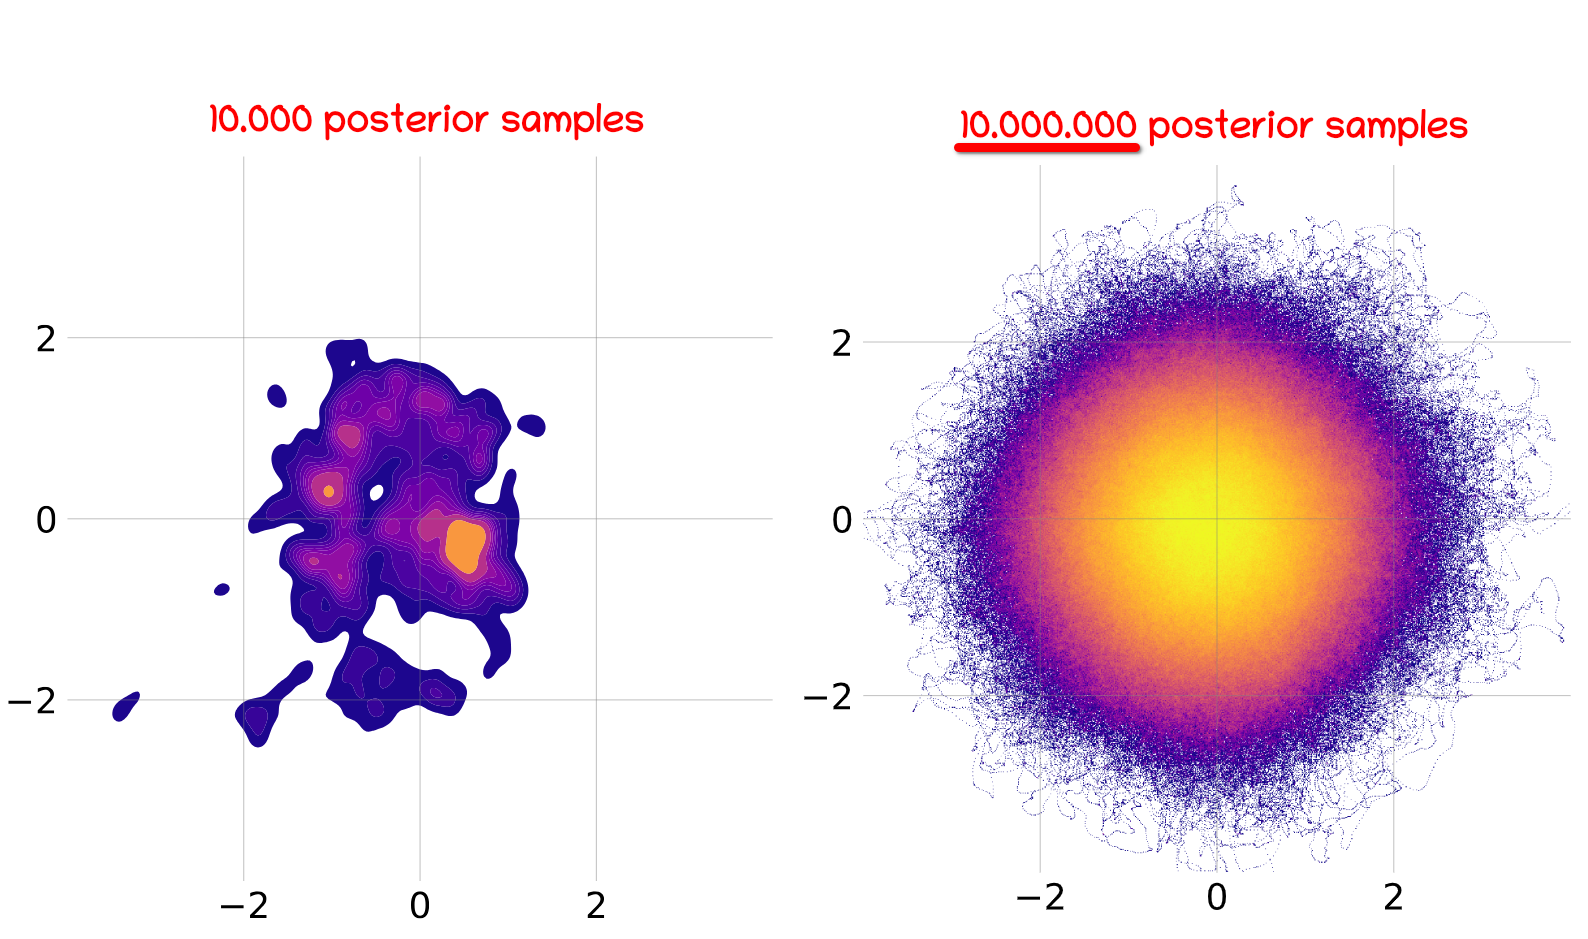
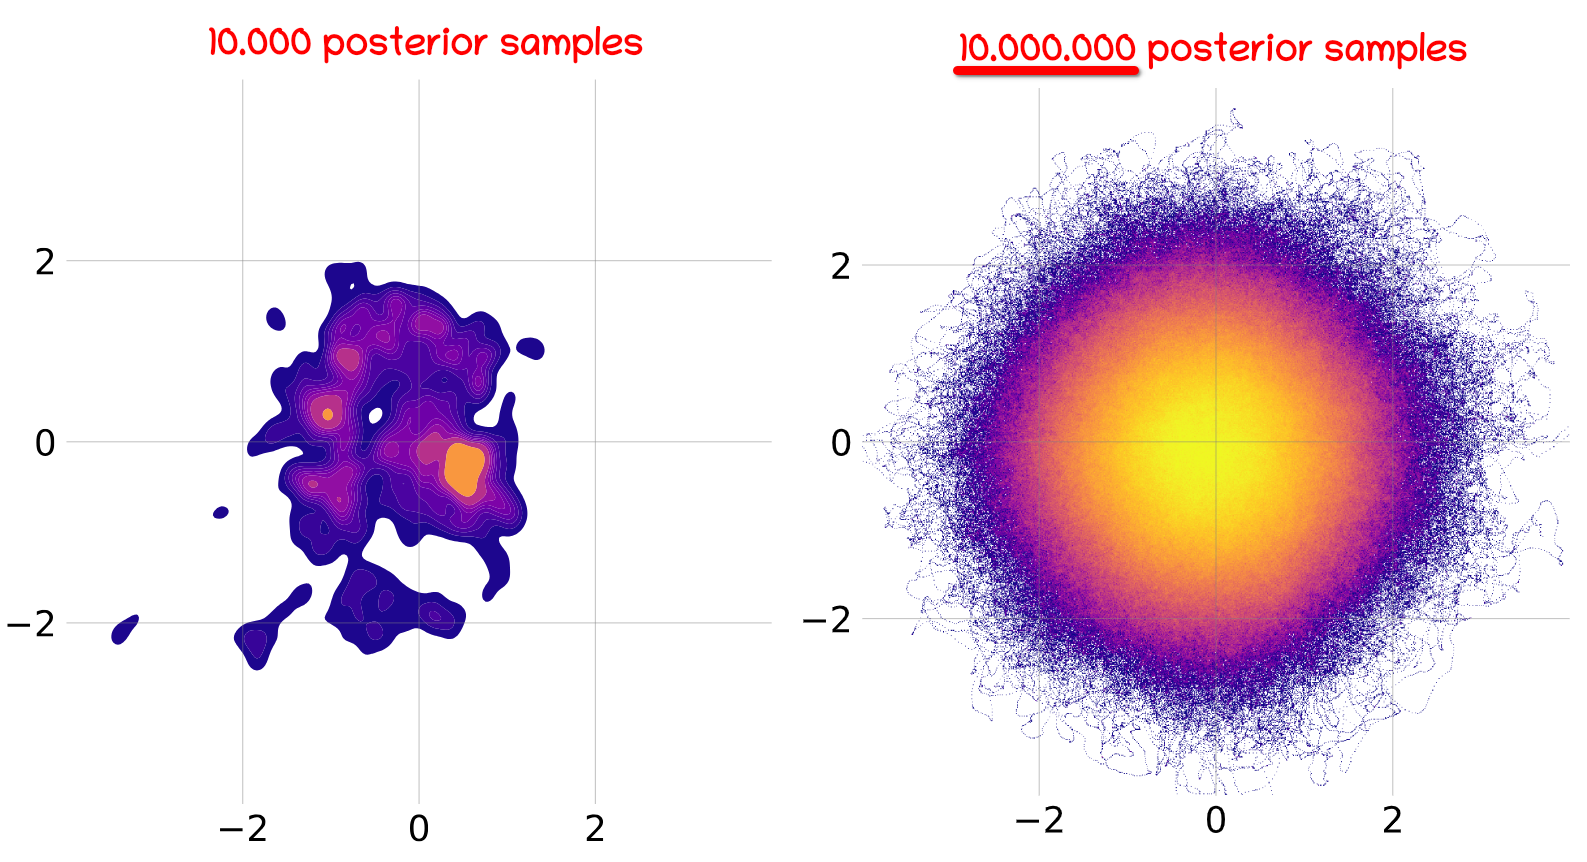
📝 adapt fig1

diff --git a/README.md b/README.md
@@ -3,7 +3,7 @@
 This repository contains the code for the **2025 ICML submission Approximate Posteriors in Neural Networks: A Sampling Perspective**. Below as a teaser you can see a (marginal) view on the approximate posterior obtained by sampling ...
 
 <p align="center">
-    <img src="data/fireball/mile_air/marginal_densities/fig1.png" alt="Flowchart" style="width: 50%;">
+    <img src="data/fireball/mile_air/marginal_densities/fig1.png" alt="Flowchart" style="width: 40%;">
 </p>
 
 Got your attention? Then take a closer look at the paper!
